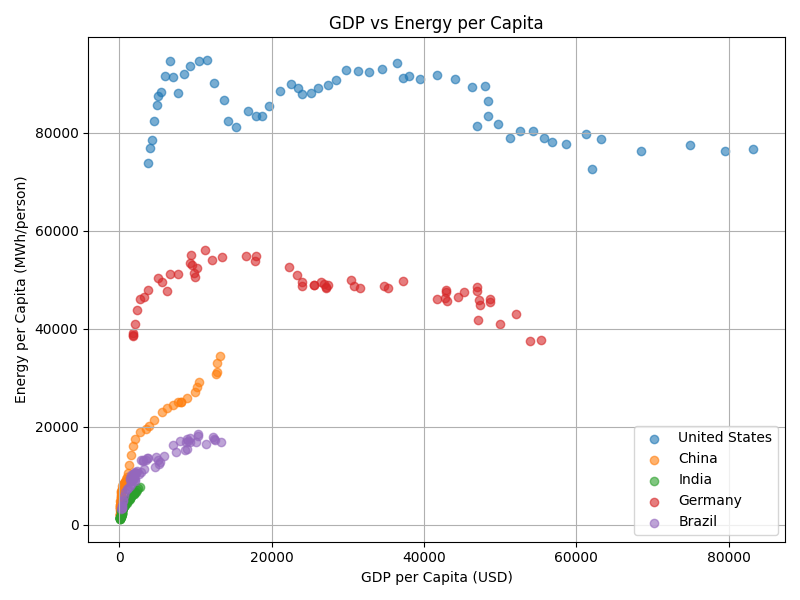
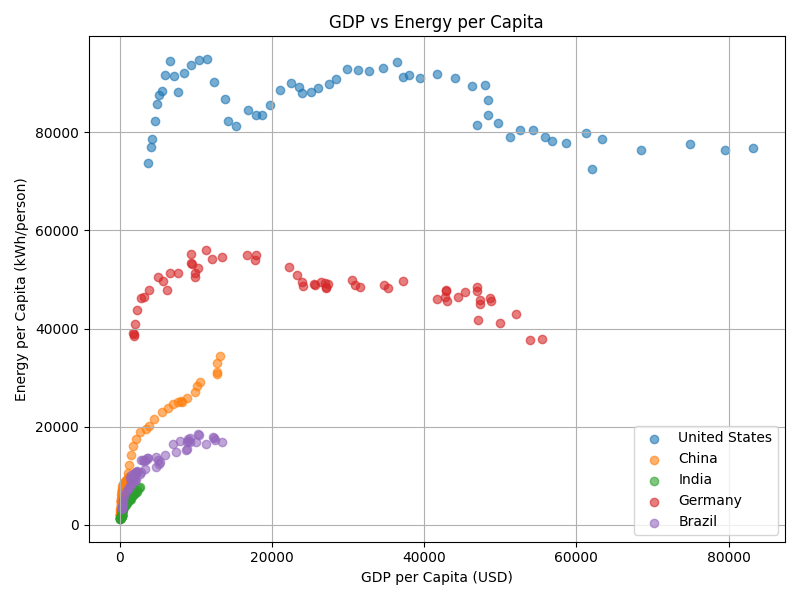
updated the unit for the visualizations, and added a multi-feature graph which size is gdp and color is fossil share

diff --git a/src/PrelimVisuals.py b/src/PrelimVisuals.py
@@ -6,7 +6,7 @@ Goal:
 - Save plots as PNG files in the 'figures/' folder.
 
 Input:
-- Data/owid-energy-data-clean.csv (cleaned dataset)
+- Data/owid-energy-data-clean-new.csv (cleaned dataset)
 
 Output:
 - Figures saved to 'figures/' folder
@@ -16,73 +16,48 @@ import pandas as pd
 import matplotlib.pyplot as plt
 from matplotlib.animation import FuncAnimation
 import os
-import numpy as np 
+import numpy as np
 
-# -------------------------------
-# 1. Load cleaned dataset
-# -------------------------------
-input_file = "Data/owid-energy-data-clean.csv"
-df = pd.read_csv(input_file)
+inputFile="/Users/of/Desktop/CS506-Project/Data/owid-energy-data-clean-new.csv"
+df=pd.read_csv(inputFile)
 
-# Ensure the figures folder exists
-figures_dir = "figures"
-os.makedirs(figures_dir, exist_ok=True)
+if ('log_gdp_per_capita' in df.columns):
+    df['gdp_per_capita']=np.exp(df['log_gdp_per_capita'])
 
-# -------------------------------
-# 2. Define colors per country
-# -------------------------------
-selected_countries = ['United States', 'China', 'India', 'Germany', 'Brazil']
-country_colors = {
-    'United States': '#1f77b4',  # blue
-    'China': '#ff7f0e',         # orange
-    'India': '#2ca02c',         # green
-    'Germany': '#d62728',       # red
-    'Brazil': '#9467bd'         # purple
-}
+if ('log_population' in df.columns):
+    df['population']=np.exp(df['log_population'])
 
-# -------------------------------
-# 3. Time-series of energy_per_capita
-# -------------------------------
+if ('gdp_per_capita' in df.columns) and ('population' in df.columns):
+    df['gdp']=df['gdp_per_capita']*df['population']
+
+figuresDir="figures"
+os.makedirs(figuresDir, exist_ok=True)
+
+selectedCountries=['United States', 'China', 'India', 'Germany', 'Brazil']
+countryColors={'United States':'#1f77b4', 'China':'#ff7f0e', 'India':'#2ca02c', 'Germany':'#d62728', 'Brazil':'#9467bd'}
+
 plt.figure(figsize=(10, 6))
-for country in selected_countries:
-    country_data = df[df['country'] == country]
-    plt.plot(
-        country_data['year'], 
-        country_data['energy_per_capita'], 
-        label=country, 
-        color=country_colors[country]  # consistent color
-    )
+
+for country in selectedCountries:
+    countryData=df[df['country']==country]
+    plt.plot(countryData['year'], countryData['energy_per_capita'], label=country, color=countryColors[country])
 
 plt.xlabel("Year")
-plt.ylabel("Energy per Capita (MWh/person)")
+plt.ylabel("Energy per Capita (kWh/person)")
 plt.title("Energy per Capita Over Time")
 plt.legend()
 plt.grid(True)
 plt.tight_layout()
-plt.savefig(f"{figures_dir}/energy_per_capita_timeseries.png")
+plt.savefig(f"{figuresDir}/energy_per_capita_timeseries.png")
 plt.close()
 print("Saved energy_per_capita_timeseries.png")
 
-# -------------------------------
-# 4. Renewables vs Fossil Share over time
-# -------------------------------
 plt.figure(figsize=(10, 6))
-for country in selected_countries:
-    country_data = df[df['country'] == country]
-    plt.plot(
-        country_data['year'], 
-        country_data['renewables_share_energy'], 
-        label=f"{country} Renewables", 
-        color=country_colors[country],  # same country color
-        linestyle='--'
-    )
-    plt.plot(
-        country_data['year'], 
-        country_data['fossil_share_energy'], 
-        label=f"{country} Fossil", 
-        color=country_colors[country],  # same country color
-        linestyle='-'
-    )
+
+for country in selectedCountries:
+    countryData=df[df['country']==country]
+    plt.plot(countryData['year'], countryData['renewables_share_energy'], label=f"{country} Renewables", color=countryColors[country], linestyle='--')
+    plt.plot(countryData['year'], countryData['fossil_share_energy'], label=f"{country} Fossil", color=countryColors[country], linestyle='-')
 
 plt.xlabel("Year")
 plt.ylabel("Share of Energy")
@@ -90,100 +65,68 @@ plt.title("Renewables vs Fossil Share of Energy Over Time")
 plt.legend()
 plt.grid(True)
 plt.tight_layout()
-plt.savefig(f"{figures_dir}/renewables_vs_fossil_share.png")
+plt.savefig(f"{figuresDir}/renewables_vs_fossil_share.png")
 plt.close()
 print("Saved renewables_vs_fossil_share.png")
 
-# -------------------------------
-# 5. GDP vs Energy per Capita Scatter
-# -------------------------------
 plt.figure(figsize=(8, 6))
-for country in selected_countries:
-    country_data = df[df['country'] == country]
-    plt.scatter(
-        country_data['gdp_per_capita'], 
-        country_data['energy_per_capita'], 
-        alpha=0.6, 
-        label=country, 
-        color=country_colors[country]  # consistent color
-    )
+
+for country in selectedCountries:
+    countryData=df[df['country']==country]
+    plt.scatter(countryData['gdp_per_capita'], countryData['energy_per_capita'], alpha=0.6, label=country, color=countryColors[country])
 
 plt.xlabel("GDP per Capita (USD)")
-plt.ylabel("Energy per Capita (MWh/person)")
+plt.ylabel("Energy per Capita (kWh/person)")
 plt.title("GDP vs Energy per Capita")
 plt.legend()
 plt.grid(True)
 plt.tight_layout()
-plt.savefig(f"{figures_dir}/gdp_vs_energy_per_capita.png")
+plt.savefig(f"{figuresDir}/gdp_vs_energy_per_capita.png")
 plt.close()
 print("Saved gdp_vs_energy_per_capita.png")
 
-# Fixed axis limits to match the static chart
-x_min, x_max = 0, 100000      # GDP per Capita
-y_min, y_max = 0, 100000     # Energy per Capita
+plt.figure(figsize=(10, 6))
 
-# -------------------------------
-# 6. GDP vs Energy per Capita Animation
-# -------------------------------
-years = sorted(df['year'].unique())
-fig, ax = plt.subplots(figsize=(8, 6))
+scatter=None
 
-# Scatter objects per country
-scatters = {}
-lines = {}      # new: line for history
-histories = {}  # new: store past positions
+for country in selectedCountries:
+    countryData=df[df['country']==country]
+    
+    if ('gdp' in df.columns) and ('fossil_share_energy' in df.columns):
+        scatter=plt.scatter(countryData['gdp_per_capita'], countryData['energy_per_capita'], s=countryData['gdp']/100000000000, c=countryData['fossil_share_energy'], cmap='Reds', alpha=0.7, edgecolors='black', label=country)
 
-for country in selected_countries:
-    # Initialize first valid data point
-    first_data = df[(df['country'] == country) & (~df['gdp_per_capita'].isna()) & (~df['energy_per_capita'].isna())]
-    if not first_data.empty:
-        x0 = first_data['gdp_per_capita'].values[0]
-        y0 = first_data['energy_per_capita'].values[0]
-        scatters[country] = ax.scatter([x0], [y0], label=country, color=country_colors[country], s=100, alpha=0.7)
-        histories[country] = [[x0, y0]]
-    else:
-        scatters[country] = ax.scatter([], [], label=country, color=country_colors[country], s=100, alpha=0.7)
-        histories[country] = []
+plt.xlabel("GDP per Capita (USD)")
+plt.ylabel("Energy per Capita (kWh/person)")
+plt.title("Energy vs GDP (Size: Absolute GDP, Color: Fossil Share)")
 
-    # Initialize line for trailing history
-    lines[country], = ax.plot([], [], color=country_colors[country], linestyle='--', alpha=0.5)
+if (scatter is not None):
+    cbar=plt.colorbar(scatter)
+    cbar.set_label("Fossil Fuel Share (%)")
 
-# Set fixed axis limits to match static chart
-ax.set_xlim(x_min, x_max)       # replace with your static chart axes
-ax.set_ylim(y_min, y_max)      # replace with your static chart axes
-
-ax.set_xlabel("GDP per Capita (USD)")
-ax.set_ylabel("Energy per Capita (MWh/person)")
-ax.grid(True)
-ax.legend()
-
-def update(year):
-    ax.set_title(f"GDP vs Energy per Capita ({year})")
-    for country in selected_countries:
-        country_data = df[(df['country'] == country) & (df['year'] == year)]
-        if not country_data.empty:
-            x = country_data['gdp_per_capita'].values[0]
-            y = country_data['energy_per_capita'].values[0]
-            if not np.isnan(x) and not np.isnan(y):
-                # Update scatter position
-                scatters[country].set_offsets(np.array([[x, y]]))
-                # Update history
-                histories[country].append([x, y])
-                line_data = np.array(histories[country])
-                # Update line positions
-                lines[country].set_data(line_data[:,0], line_data[:,1])
-            else:
-                scatters[country].set_offsets(np.empty((0, 2)))
-        else:
-            scatters[country].set_offsets(np.empty((0, 2)))
-    # Return both scatters and lines
-    return list(scatters.values()) + list(lines.values())
-
-anim = FuncAnimation(fig, update, frames=years, interval=500, blit=False)
-
-# Save GIF using Pillow
-anim.save(f"{figures_dir}/gdp_vs_energy_per_capita_animation.gif", writer='pillow', dpi=200)
+plt.grid(True)
+plt.tight_layout()
+plt.savefig(f"{figuresDir}/multi_feature_bubble_chart.png")
 plt.close()
-print("Saved gdp_vs_energy_per_capita_animation.gif using Pillow")
+print("Saved multi_feature_bubble_chart.png")
 
-print("\nAll visualizations (static + animation) saved in the 'figures/' folder.")
+xMin, xMax=0, 100000
+yMin, yMax=0, 100000
+
+years=sorted(df['year'].unique())
+fig, ax=plt.subplots(figsize=(8, 6))
+
+scatters={}
+lines={}      
+histories={}  
+
+for country in selectedCountries:
+    firstData=df[(df['country']==country) & (~df['gdp_per_capita'].isna()) & (~df['energy_per_capita'].isna())]
+    
+    if (not firstData.empty):
+        x0=firstData['gdp_per_capita'].values[0]
+        y0=firstData['energy_per_capita'].values[0]
+        scatters[country]=ax.scatter([x0], [y0], label=country, color=countryColors[country], s=100, alpha=0.7)
+        histories[country]=[[x0, y0]]
+    else:
+        scatters[country]=ax.scatter([], [], label=country, color=countryColors[country], s=100, alpha=0.7)
+        histories
